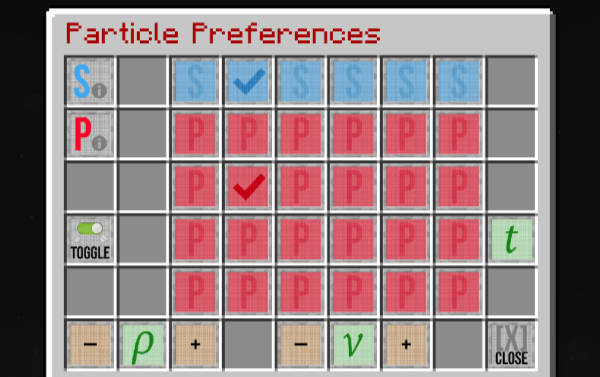
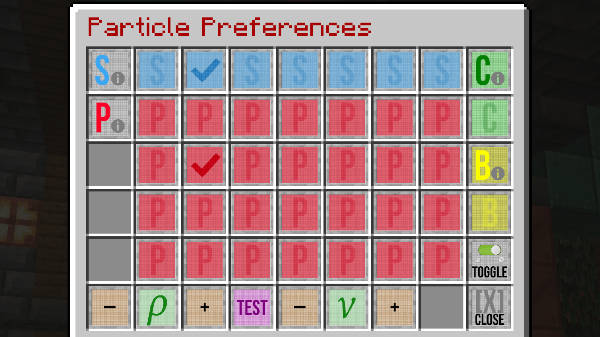
Update particles GUI

diff --git a/docs/materialisation-particles.md b/docs/materialisation-particles.md
@@ -118,6 +118,18 @@ You can set particle options in the Particle Prefs GUI. Right-click AIR while sn
       <td class="indent1">`Snowy`</td><td>_Item snowball_ - Produced when thrown snowballs break.</td>
   </tr>
   <tr>
+    <td colspan="2">**Colour**</td>
+  </tr>
+  <tr>
+    <td>![Colour info](https://github.com/eccentricdevotion/TARDIS-Resource-Pack/blob/master/assets/tardis/textures/item/gui/particle/colour_info.png?raw=true)</td><td>_Set the colour of the particle effect_ - only applies to `Dust` and `Effect` particles - choose an option underneath this icon.</td>
+  </tr>
+  <tr>
+    <td colspan="2">**Block**</td>
+  </tr>
+  <tr>
+    <td>![Block info](https://github.com/eccentricdevotion/TARDIS-Resource-Pack/blob/master/assets/tardis/textures/item/gui/particle/block_info.png?raw=true)</td><td>_Set the block type used by the Block the particle effect_ - only applies to `Block` particles - choose an option underneath this icon.</td>
+  </tr>
+  <tr>
     <td colspan="2">**Density**</td>
   </tr>
   <tr>
